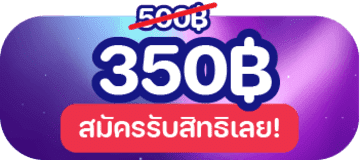
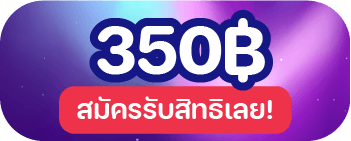
fix: promotion content

diff --git a/src/data/products.ts b/src/data/products.ts
@@ -827,34 +827,36 @@ export const packages: Package[] = [
     benefits: [
       { text: "ไม่มีส่วนลด", included: false },
       { text: "ของแถม 10+ชิ้น", highlight: true },
-      { text: "ของแถม Exclusive", sub: "(สามารถเลือกสีขาว สีดำได้)" },
+      { text: "ของแถม Exclusive", sub: "(สามารถเลือกสีขาว สีดำได้)", included: false },
       { text: "เช็คยอดผ่านระบบได้", sub: "ด้วยตนเอง 24ชม." },
       { text: "ระบบคืนเงิน" },
-    ],
-  },
-  {
-    id: "plus",
-    name: "Shiba Plus",
-    subtitle: "สมดุลดี คุ้มค่า",
-    pay: 100,
-    discount: 200,
-    color: "#5ddbba",
-    steps: 15,
-    price: 25000,
-    monthlyStart: 899,
-    bgGradient: "from-teal-100 to-emerald-50",
-    icon: "",
-    benefits: [
-      { text: "ส่วนลด 200", highlight: true },
-      { text: "ของแถม 15+ชิ้น", highlight: true },
-      { text: "ของแถม Exclusive", sub: "(สามารถเลือกสีขาว สีดำได้)" },
-      { text: "เช็คยอดผ่านระบบได้", sub: "ด้วยตนเอง 24ชม." },
-      { text: "ระบบคืนเงิน" },
+      { text: "ออม 1 เดือนขึ้นไป", highlight: true },
     ],
   },
   {
     id: "promax",
     name: "Shiba Pro Max",
+    subtitle: "ครบครัน พรีเมียมสุด",
+    pay: 350,
+    discount: 1000,
+    color: "#b2a5f2",
+    steps: 15,
+    price: 45000,
+    monthlyStart: 1299,
+    bgGradient: "from-violet-100 to-purple-50",
+    icon: "",
+    benefits: [
+      { text: "ส่วนลด 500", highlight: true },
+      { text: "ของแถม 20ชิ้น", highlight: true },
+      { text: "ของแถม Exclusive", sub: "(สามารถเลือกสีขาว สีดำได้)", highlight: true },
+      { text: "เช็คยอดผ่านระบบได้", sub: "ด้วยตนเอง 24ชม." },
+      { text: "ระบบคืนเงิน" },
+      { text: "ออม 1 เดือนขึ้นไป", highlight: true },
+    ],
+  },
+  {
+    id: "ultra",
+    name: "Shiba Ultra",
     subtitle: "ครบครัน พรีเมียมสุด",
     pay: 350,
     originalPay: 500,
@@ -866,11 +868,12 @@ export const packages: Package[] = [
     bgGradient: "from-violet-100 to-purple-50",
     icon: "",
     benefits: [
-      { text: "ส่วนลด 1,000", highlight: true },
-      { text: "ของแถม 30+ชิ้น", highlight: true },
+      { text: "ส่วนลด 1000", highlight: true },
+      { text: "ของแถม 45ชิ้น", highlight: true },
       { text: "ของแถม Exclusive", sub: "(สามารถเลือกสีขาว สีดำได้)", highlight: true },
       { text: "เช็คยอดผ่านระบบได้", sub: "ด้วยตนเอง 24ชม." },
       { text: "ระบบคืนเงิน" },
+      { text: "ออม 1 เดือนขึ้นไป", highlight: true },
       { text: "พิจารณารับเครื่องเร็วขึ้น", highlight: true },
     ],
     popular: true,

diff --git a/src/data/images.ts b/src/data/images.ts
@@ -55,10 +55,11 @@ export const PACKAGE_CARD = {
   puppy: `${B}/puppy.png`,
   plus: `${B}/plus.png`,
   promax: `${B}/promax.png`,
+  ultra: `${B}/ultra.png`,
 } as const;
 
 export const PACKAGE_BADGE = {
-  /** Like badge สำหรับ Pro Max */
+  /** Like badge สำหรับ Ultra */
   like: `${B}/like.png`,
 } as const;
 
@@ -70,6 +71,7 @@ export const PROMOTION = {
   puppy: `${B}/promotion_puppy.png`,
   plus: `${B}/promotion_plus.png`,
   promax: `${B}/promotion_promax.png`,
+  ultra: `${B}/promotion_ultra.png`,
 } as const;
 
 // ============================================================
@@ -103,6 +105,7 @@ export const packageImageMap: Record<string, string> = {
   puppy: PACKAGE_CARD.puppy,
   plus: PACKAGE_CARD.plus,
   promax: PACKAGE_CARD.promax,
+  ultra: PACKAGE_CARD.ultra,
 };
 
 /** Promotion badge image by package id */
@@ -110,5 +113,6 @@ export const promotionImageMap: Record<string, string> = {
   puppy: PROMOTION.puppy,
   plus: PROMOTION.plus,
   promax: PROMOTION.promax,
+  ultra: PROMOTION.ultra,
 };
 

diff --git a/src/view/PackagesView.tsx b/src/view/PackagesView.tsx
@@ -38,8 +38,8 @@ function PackageCard({
       data-promoted={pkg.popular ? "true" : undefined}
       className="relative gsap-package-card min-w-[180px] w-[180px] sm:min-w-[220px] sm:w-[220px] lg:min-w-[240px] lg:w-[240px] shrink-0 snap-center lg:snap-align-none"
     >
-      {/* Like badge for Pro Max */}
-      {pkg.id === "promax" && (
+      {/* Like badge for Ultra */}
+      {pkg.id === "ultra" && (
         <div className="absolute top-1 md:top-2 md:left-2 z-20">
           <Image
             src={PACKAGE_BADGE.like}
